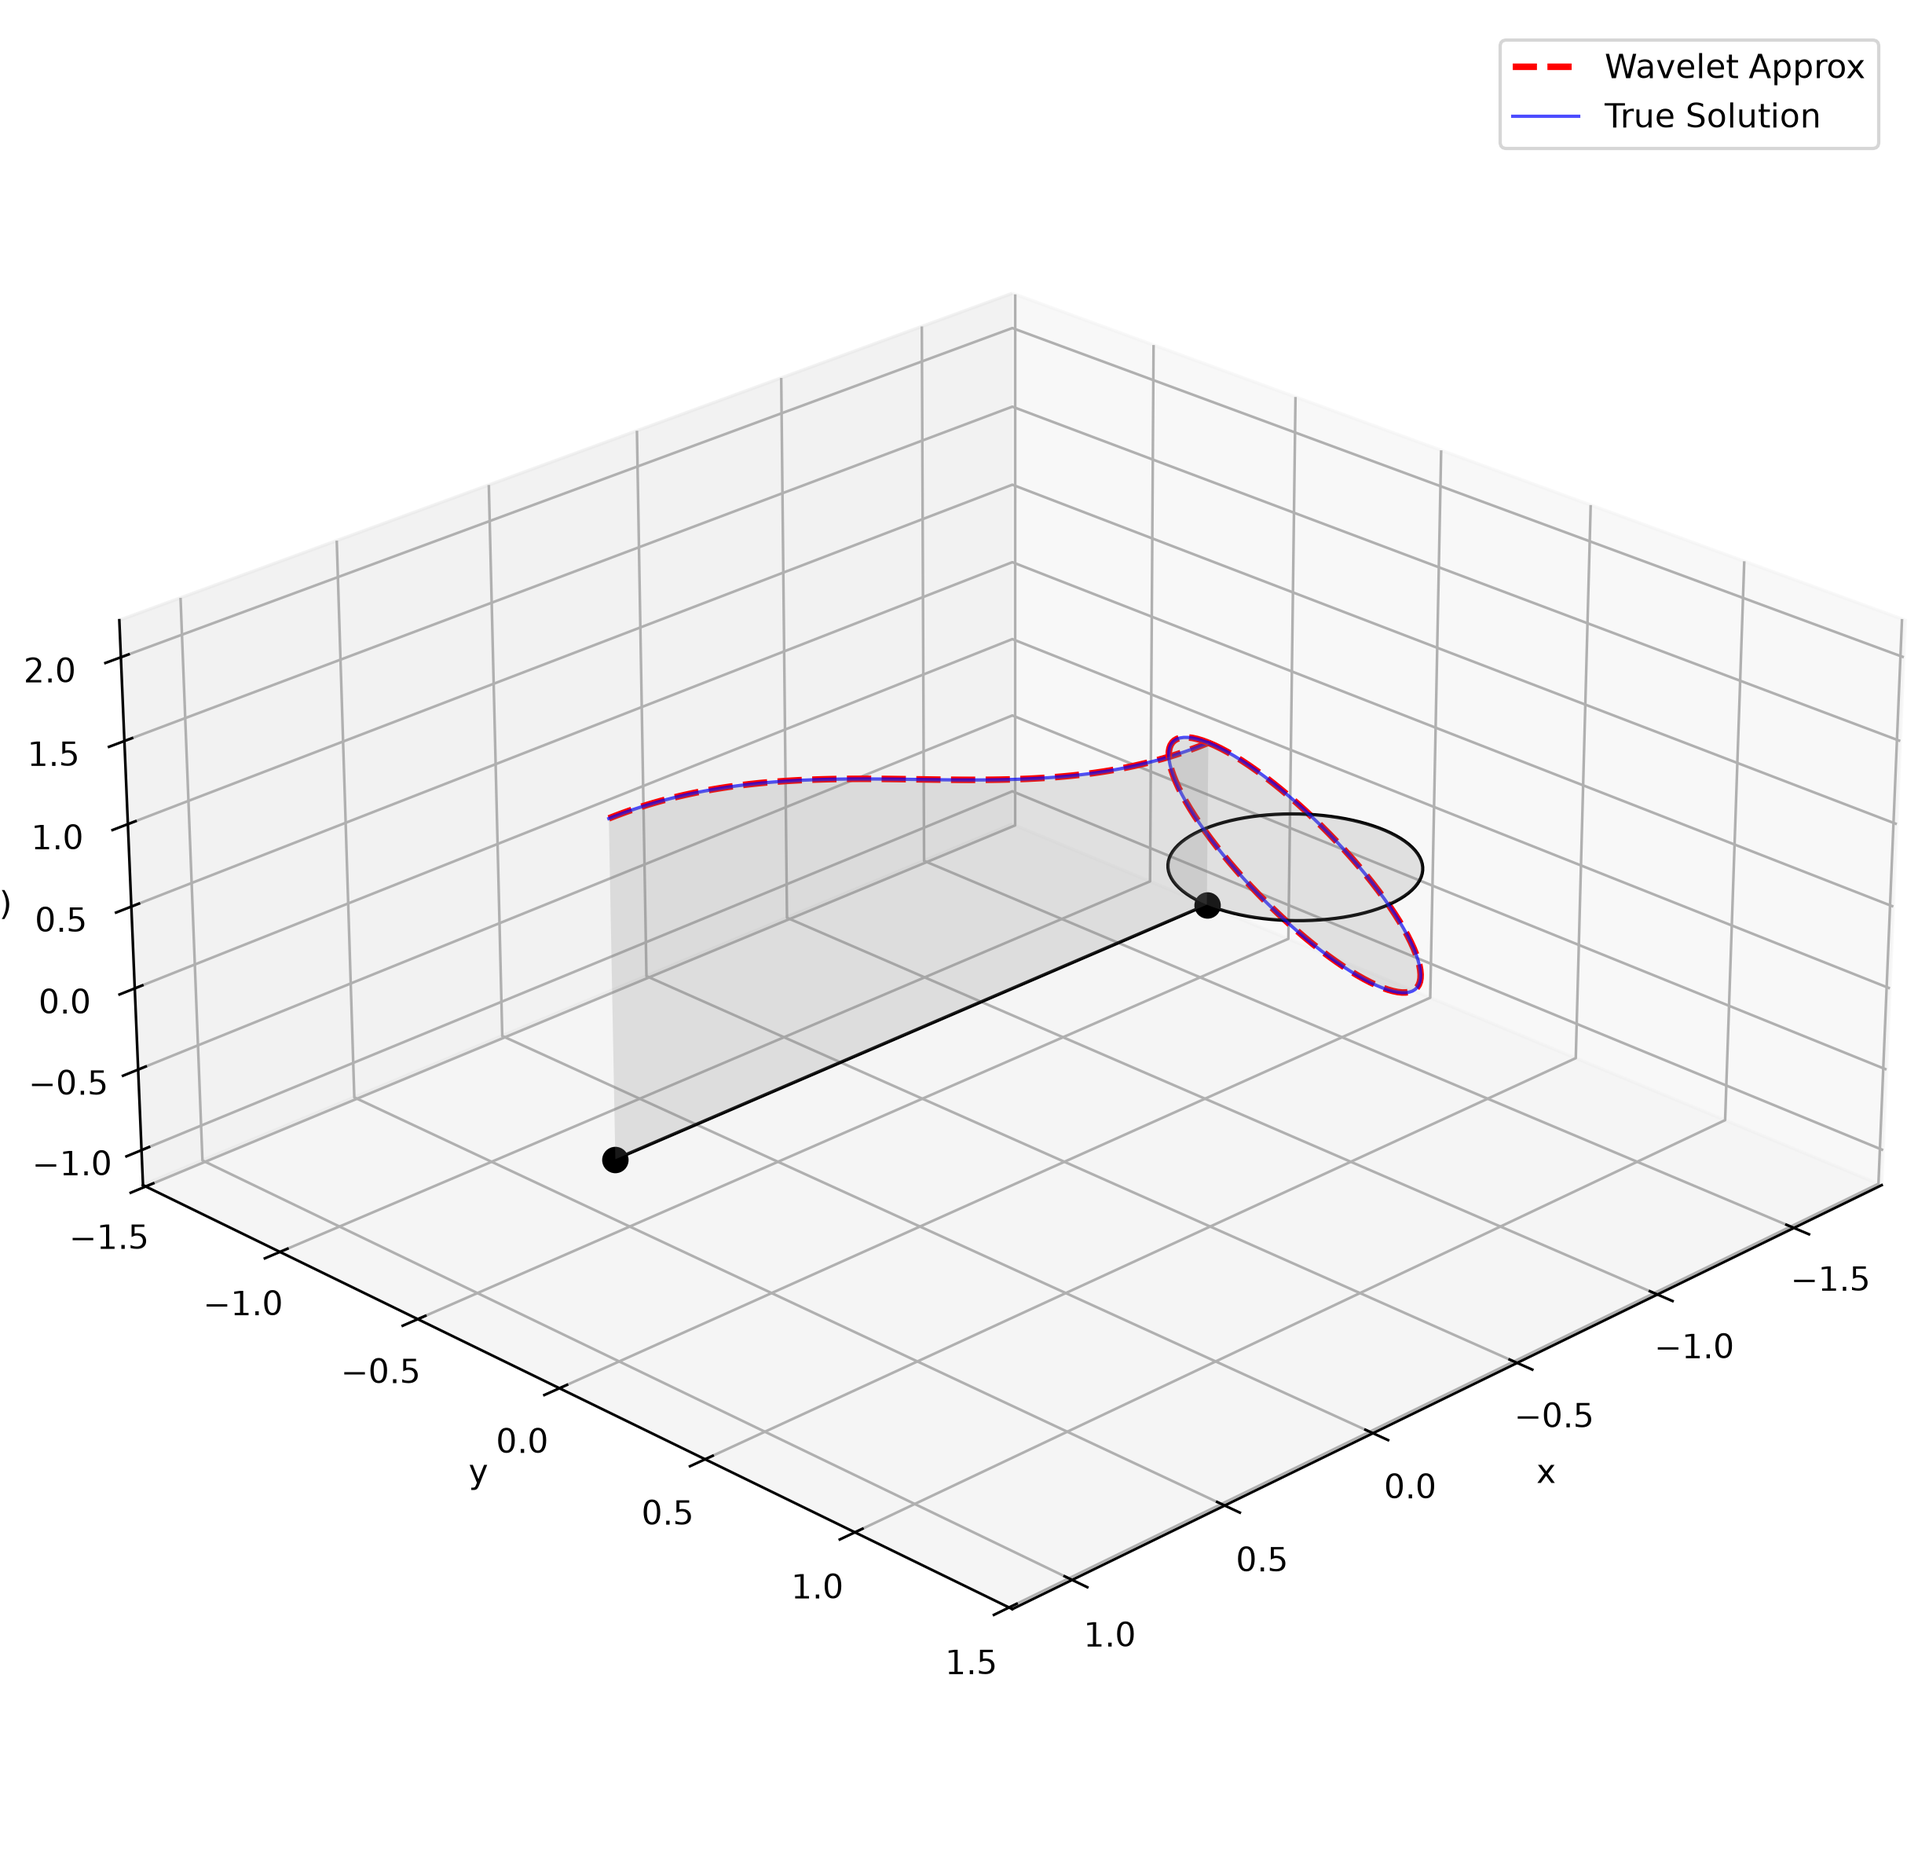
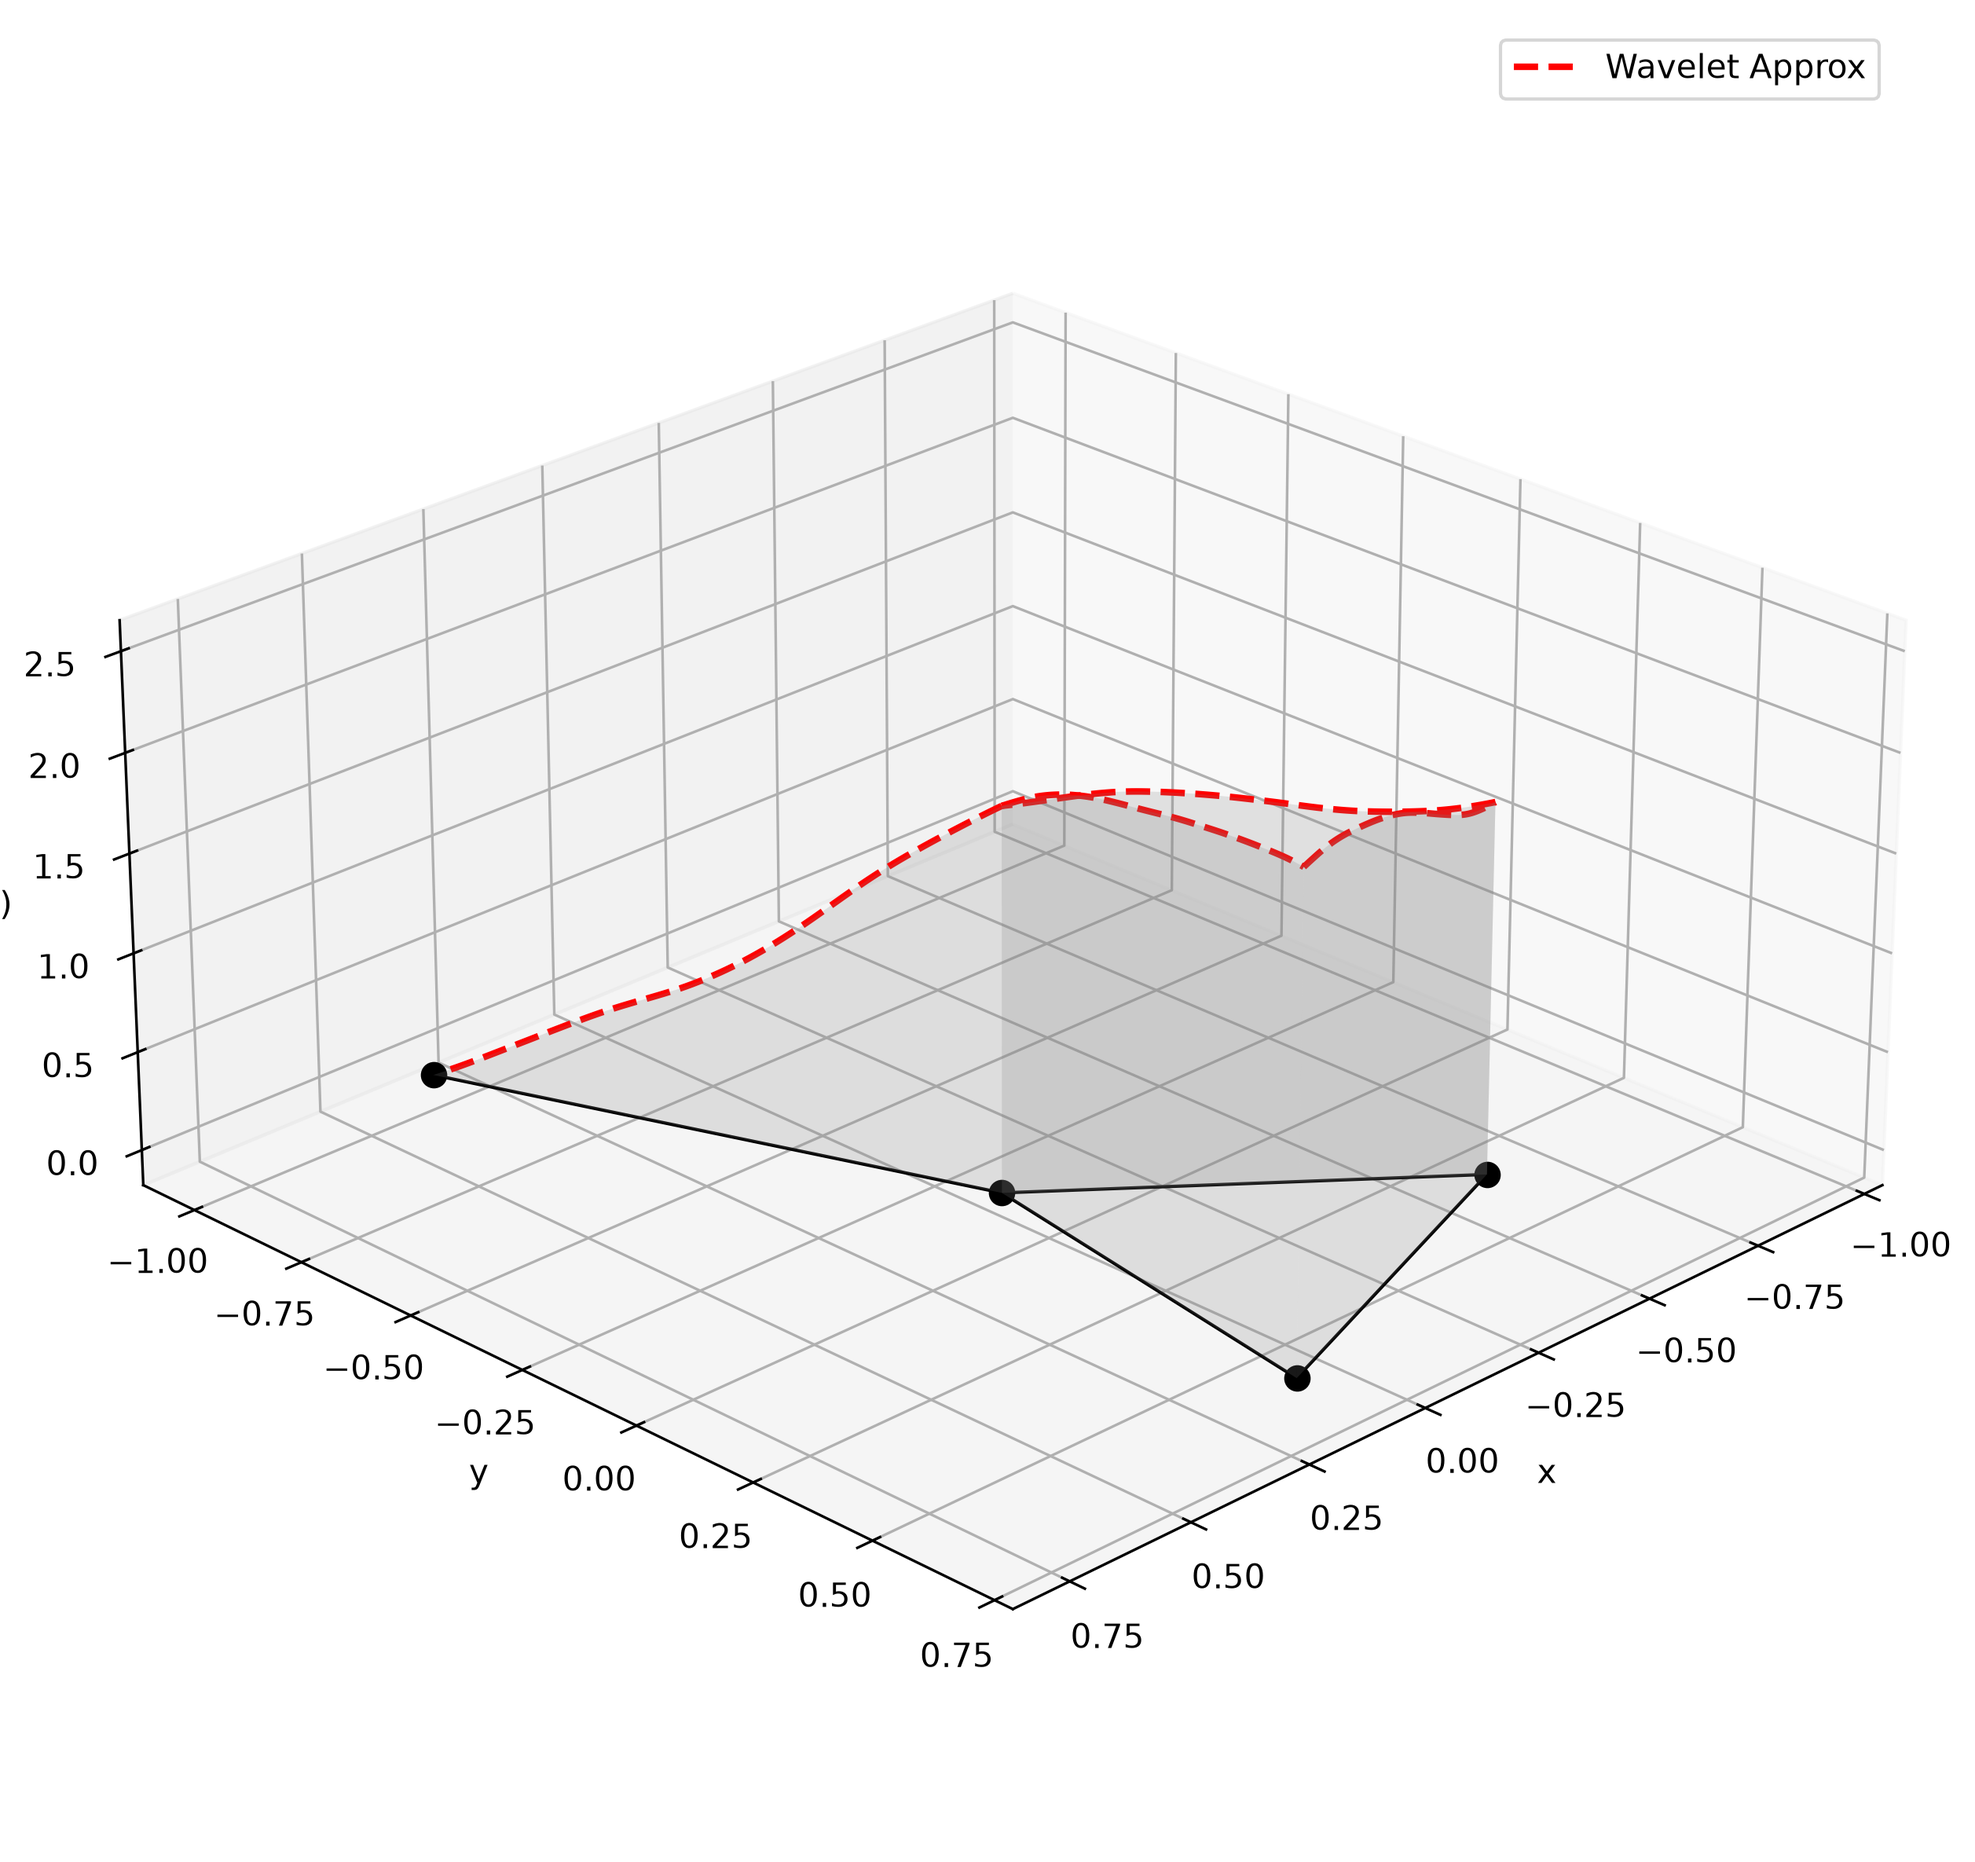
Update visualization scripts for headless benchmarking and refine Matérn field generation

diff --git a/compare.py b/compare.py
@@ -5,6 +5,8 @@ import importlib
 import time
 import numpy as np
 import torch
+import matplotlib
+matplotlib.use('Agg')
 import matplotlib.pyplot as plt
 from scipy.integrate import quad
 
@@ -23,6 +25,8 @@ parser.add_argument('-p', '--problem', type=str, required=True, help="Problem ID
 parser.add_argument('--viz3d', type=str, choices=['fpinn', 'wavelet'], help="Open interactive 3D visualization for the specified solver")
 parser.add_argument('--skip-fpinn', action='store_true', help="Skip FPINN training and load existing predictions")
 parser.add_argument('--skip-wavelet', action='store_true', help="Skip Wavelet solving")
+parser.add_argument('-k', '--k_val', type=int, default=6, help="Resolution level k for Wavelet solver")
+parser.add_argument('-m', '--m_val', type=int, default=4, help="Degree M for Wavelet solver")
 args = parser.parse_args()
 
 # Strip out 'problems/' prefix or '.py' extension if the user used bash autocomplete
@@ -41,7 +45,6 @@ problem_mod = importlib.import_module(f"problems.{problem_name}")
 # Import solvers and utilities
 from fpinn.train import train as run_fpinn
 from wavelets.solver import WaveletSolverMG
-from wavelets.main import K_VAL, M_VAL
 from fpinn.math_ops.fractional_operators import get_jacobi_quadrature, autograd_caputo_derivative, l21sigma_weights, fdv
 
 # --- Set up Wavelet solver wrappers for PyTorch/SciPy compatibility ---
@@ -163,7 +166,7 @@ def main():
             k_volt, 
             k_fred
         )
-        approx_func, collocation_pts = solver.solve(K_VAL, M_VAL, compute_f)
+        approx_func, collocation_pts = solver.solve(args.k_val, args.m_val, compute_f)
         wavelet_time = time.perf_counter() - t0
         print(f"\nWavelet wall-clock time: {wavelet_time:.2f}s")
 
@@ -392,7 +395,9 @@ def main():
         ax3d.view_init(elev=25, azim=45)
 
         plt.tight_layout()
-        plt.show()
+        out_3d_path = os.path.join(project_root, 'exports', f'sol_3d_{args.viz3d}.png')
+        plt.savefig(out_3d_path, dpi=300, bbox_inches='tight')
+        print(f"3D visualization saved to {out_3d_path}")
 
 if __name__ == "__main__":
     main()

diff --git a/wavelets/main.py b/wavelets/main.py
@@ -74,7 +74,7 @@ def autograd_caputo_derivative(func, x, alpha, quad_pts, quad_wts):
     
     return frac_d.unsqueeze(1)
 
-def run_wavelets(problem_mod):
+def run_wavelets(problem_mod, k_val=K_VAL, m_val=M_VAL):
     ALPHA = problem_mod.ALPHA
     EDGE_DEFS = problem_mod.EDGE_DEFS
     BC_DEFS = problem_mod.BC_DEFS
@@ -122,9 +122,9 @@ def run_wavelets(problem_mod):
 
     solver = WaveletSolverMG(EDGE_DEFS, BC_DEFS, ALPHA, reaction, k_volt, k_fred)
     
-    print(f"[ Wavelet Solver | gamma: {ALPHA} | k: {K_VAL} | M: {M_VAL} ]")
+    print(f"[ Wavelet Solver | gamma: {ALPHA} | k: {k_val} | M: {m_val} ]")
     
-    approx_func, collocation_pts = solver.solve(K_VAL, M_VAL, compute_f)
+    approx_func, collocation_pts = solver.solve(k_val, m_val, compute_f)
     
     print(f"\nEdge | x          | Exact           | Approx          | Error")
     print("------------------------------------------------------------------")
@@ -183,6 +183,8 @@ if __name__ == "__main__":
     
     parser = argparse.ArgumentParser()
     parser.add_argument('-p', '--problem', type=str, required=True, help='Problem ID (e.g. b4a)')
+    parser.add_argument('-k', '--k_val', type=int, default=K_VAL, help='Resolution level k for Wavelet solver')
+    parser.add_argument('-m', '--m_val', type=int, default=M_VAL, help='Degree M for Wavelet solver')
     args = parser.parse_args()
     
     problem_id = os.path.basename(args.problem).replace('.py', '')
@@ -193,4 +195,4 @@ if __name__ == "__main__":
     mod_name = files[0].split('/')[-1].replace('.py', '')
     problem_mod = importlib.import_module(f"problems.{mod_name}")
     
-    run_wavelets(problem_mod)
+    run_wavelets(problem_mod, k_val=args.k_val, m_val=args.m_val)

diff --git a/fpinn/viz_3d.py b/fpinn/viz_3d.py
@@ -2,10 +2,8 @@ import sys
 import os
 sys.path.append(os.path.abspath(os.path.join(os.path.dirname(__file__), '..')))
 
-# Explicitly declare the interactive Qt5 backend before importing pyplot
 import matplotlib
-matplotlib.use('Qt5Agg') 
-
+matplotlib.use('Agg')
 import matplotlib.pyplot as plt
 from mpl_toolkits.mplot3d.art3d import Poly3DCollection
 import torch
@@ -94,9 +92,6 @@ def main():
     plt.tight_layout()
     plt.savefig('exports/sol_3d.png', dpi=300, bbox_inches='tight')
     print("3D Plot saved to exports/sol_3d.png")
-    
-    # Initialize the interactive window
-    plt.show()
 
 if __name__ == "__main__":
     main()

diff --git a/problems/matern_random_tadpole.py b/problems/matern_random_tadpole.py
@@ -32,13 +32,13 @@ def matern_kernel(dist, nu, length_scale):
 
 _sources = {}
 for i, (_, _, L) in enumerate(EDGE_DEFS):
-    pts = np.linspace(0, L, 200)
+    pts = np.linspace(0, L, 500)
     dist = np.abs(pts[:, None] - pts[None, :])
     cov = matern_kernel(dist, nu, length_scale)
-    cov += 1e-8 * np.eye(200) # numerical stability
+    cov += 1e-8 * np.eye(500) # numerical stability
     
     L_chol = np.linalg.cholesky(cov)
-    z = np.random.randn(200)
+    z = np.random.randn(500)
     f_vals = L_chol @ z
     
     _sources[i] = interp1d(pts, f_vals, kind='cubic', bounds_error=False, fill_value="extrapolate")

diff --git a/wavelets/viz_3d.py b/wavelets/viz_3d.py
@@ -1,5 +1,7 @@
 import sys
 import os
+import matplotlib
+matplotlib.use('Agg')
 import matplotlib.pyplot as plt
 from mpl_toolkits.mplot3d.art3d import Poly3DCollection
 import torch
@@ -108,7 +110,6 @@ def main():
     out_path = os.path.join(plots_dir, 'sol_3d.png')
     plt.tight_layout()
     plt.savefig(out_path, dpi=300, bbox_inches='tight')
-    plt.show()
     print(f"Generalized 3D Plot saved to {out_path}")
 
 if __name__ == "__main__":

diff --git a/fpinn/core/pifmi.py b/fpinn/core/pifmi.py
@@ -166,7 +166,6 @@ class MetricGraphNet(nn.Module):
         x_scaled = x_in / L
         x_val = x_in
         
-        # Mathematical Ansatzes combining Dirichlet and Neumann constraints exactly
         if T0 == 'Dirichlet' and TL == 'Dirichlet':
             y = v0 * (1 - x_scaled) + vL * x_scaled + x_scaled * (1 - x_scaled) * raw
         elif T0 == 'Dirichlet' and TL == 'Neumann':

diff --git a/problems/diamond_volterra.py b/problems/diamond_volterra.py
@@ -44,7 +44,7 @@ def reaction(x, edge_i):
 
 def k_volt(edge_i, x, z):
     """
-    Strong Volterra kernel: magnitude ~3.0–4.5.
+    Strong Volterra kernel: magnitude ~3.0-4.5.
     Edge-dependent exponential decay with high amplitude.
     """
     scale = 3.0 + 0.5 * edge_i

diff --git a/fpinn/viz.py b/fpinn/viz.py
@@ -1,6 +1,8 @@
 import sys
 import os
 sys.path.append(os.path.abspath(os.path.join(os.path.dirname(__file__), '..')))
+import matplotlib
+matplotlib.use('Agg')
 import matplotlib.pyplot as plt
 import torch
 import json

diff --git a/wavelets/viz.py b/wavelets/viz.py
@@ -1,5 +1,7 @@
 import sys
 import os
+import matplotlib
+matplotlib.use('Agg')
 import matplotlib.pyplot as plt
 import torch
 
